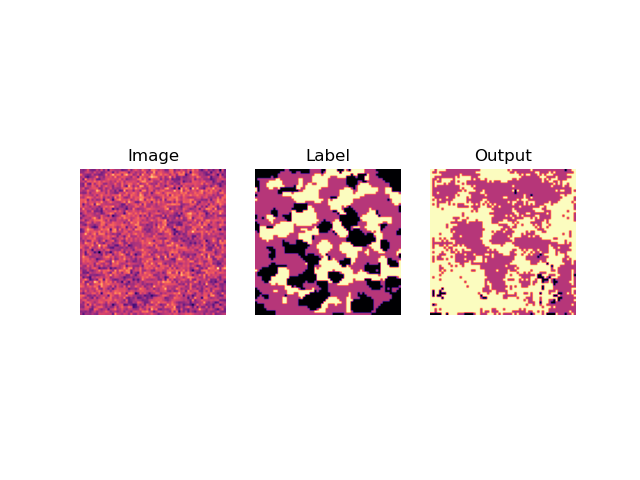
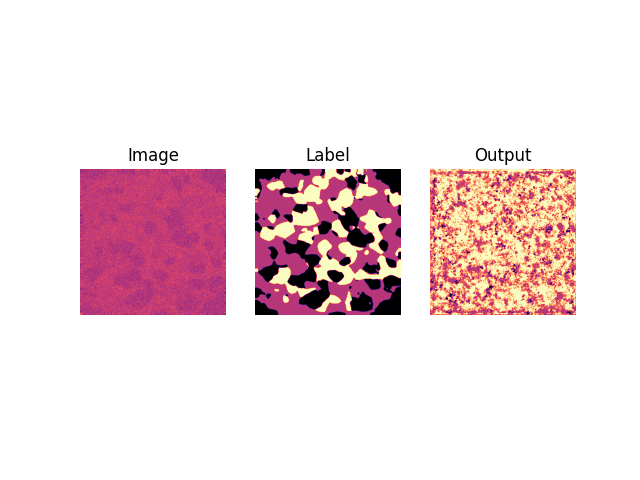
add timing and comment noise

Changed region(s): [[0.125, 0.3125, 0.625, 0.6562], [0.6562, 0.3125, 0.9062, 0.6562]]

diff --git a/src/XRaySegmentation.py b/src/XRaySegmentation.py
@@ -11,6 +11,7 @@ import torch
 from UNet_3Plus import UNet_3Plus
 import torch.nn.functional as F
 from iouLoss import *
+import time
 
 
 # HYPERPARAMETERS
@@ -114,12 +115,12 @@ class CustomSegmentationDataset(Dataset):
         return image, label
 
     def apply_transform(self, image, label):
-        image = np.asarray(image) / (2 ** 16 - 1)  # scale it to [0,1]
-        mean = 0
-        variance = 0.1  # You can change this value
-        sigma = np.sqrt(variance)
-        gaussian = np.random.normal(mean, sigma, image.shape)
-        image = image + gaussian
+        image = np.asarray(image).astype(np.float32) / (2 ** 16 - 1)  # scale it to [0,1]
+        #mean = 0
+        #variance = 0.3  # You can change this value
+        #sigma = np.sqrt(variance)
+        #gaussian = np.random.normal(mean, sigma, image.shape)
+        #image = image + gaussian
 
         image = (image - image.min()) / (image.max() - image.min())  # stretch it to include 0 and 1
         image = Image.fromarray((image * 255).astype(np.uint8))  # convert it back to
@@ -164,6 +165,8 @@ model.train()
 train_accuracies = []
 valid_accuracies = []
 
+current_time = time.time()
+
 for epoch in range(NUM_EPOCHS):
     train_accuracies_batches = []
 
@@ -180,8 +183,8 @@ for epoch in range(NUM_EPOCHS):
         loss.backward()
         optimizer.step()
 
-        if step % 400 == 0:
-            plot_image_and_label_output(inputs, targets, step, torch.argmax(output, dim=1))
+        #if step % 400 == 0:
+            #plot_image_and_label_output(inputs, targets, step, torch.argmax(output, dim=1))
 
         # Increment step counter
         step += 1
@@ -216,4 +219,5 @@ for epoch in range(NUM_EPOCHS):
             print(f"Step {step:<5}   training accuracy: {train_accuracies[-1]}")
             print(f"             test accuracy: {valid_accuracies[-1]}")
 
-print("Finished training.")
+current_time = time.time() - current_time
+print(f"Finished training. Took {current_time/60} min")
